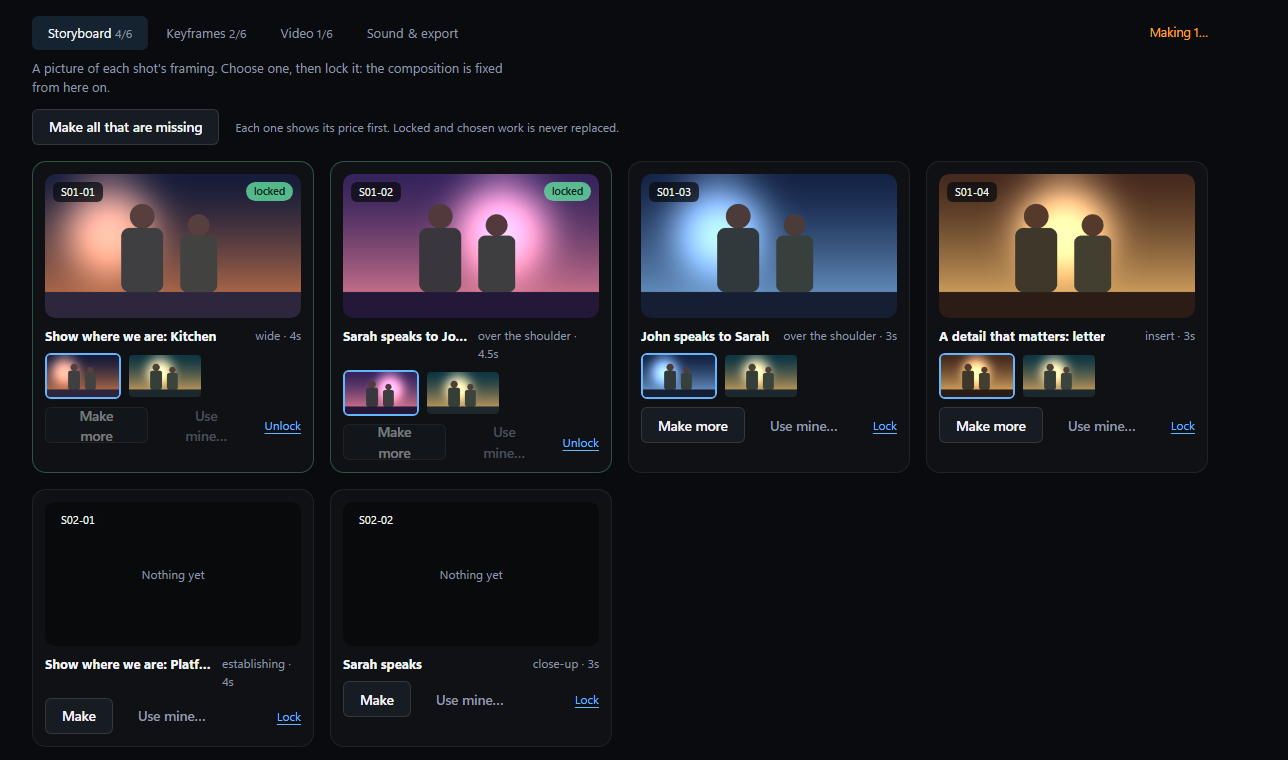
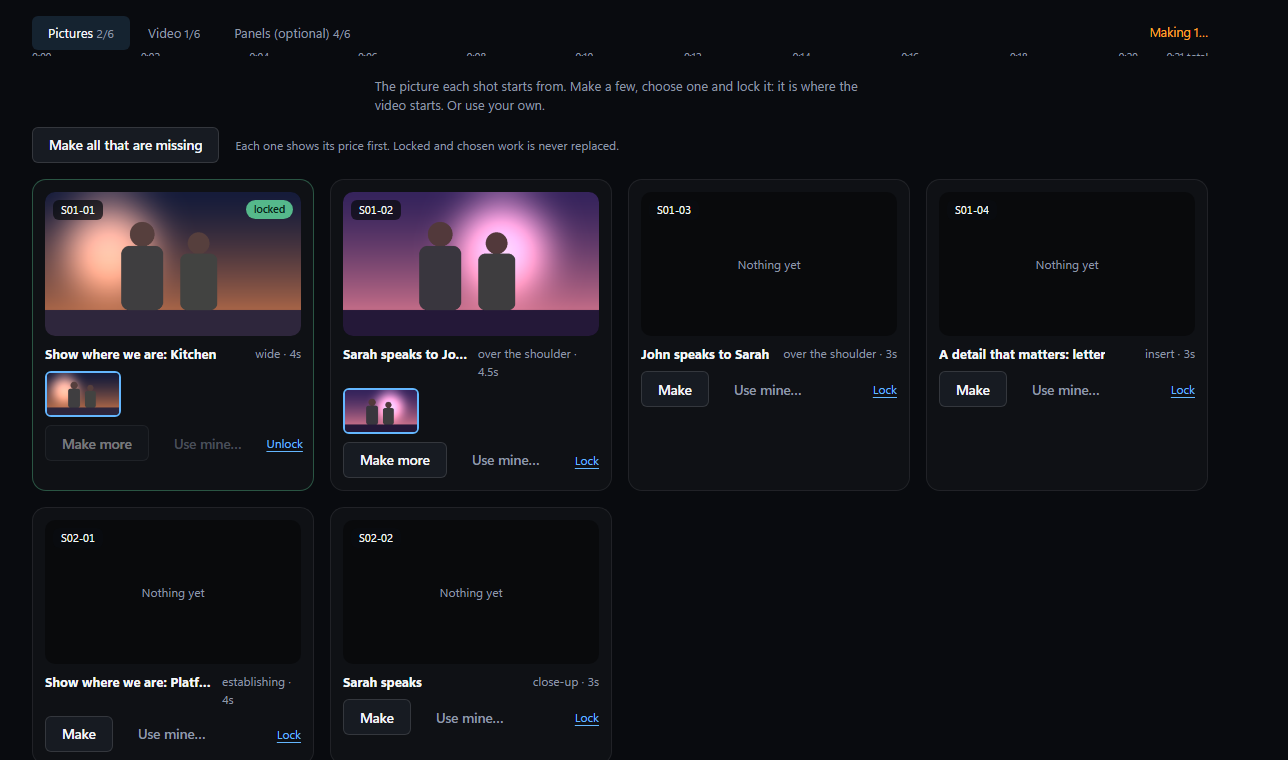
0.6.0: one Studio step (Cards | Timeline), Panels optional, Export its own step, Simple/Pro

diff --git a/src/MakeFilm.tsx b/src/MakeFilm.tsx
@@ -7,10 +7,10 @@ import { FilmStrip } from "./FilmStrip";
 
 export type MakeTab = "storyboard" | "keyframe" | "video" | "deliver";
 const TABS: { id: MakeTab; label: string; blurb: string }[] = [
-  { id: "storyboard", label: "Storyboard", blurb: "A picture of each shot's framing. Choose one, then lock it: the composition is fixed from here on." },
-  { id: "keyframe", label: "Keyframes", blurb: "The hero frame of each shot, made from the approved storyboard. Choose one, then lock it: it is where the video starts." },
-  { id: "video", label: "Video", blurb: "Each shot brought to life from its locked keyframe. Compare takes and approve the one to use." },
-  { id: "deliver", label: "Sound & export", blurb: "The soundtrack, then the finished film." },
+  { id: "keyframe", label: "Pictures", blurb: "The picture each shot starts from. Make a few, choose one and lock it: it is where the video starts. Or use your own." },
+  { id: "video", label: "Video", blurb: "Each shot brought to life from its locked picture. Compare takes and approve the one to use." },
+  { id: "storyboard", label: "Panels (optional)", blurb: "A cheaper first pass: a quick picture of each shot's composition. Choose one and lock it, and the picture is then made from it. Skip this if you like." },
+  { id: "deliver", label: "Export", blurb: "The soundtrack, then the finished film or a hand-off to an editor." },
 ];
 const NOUN = { storyboard: "storyboard panel", keyframe: "keyframe", video: "video" } as const;
 const PRESETS: [string, string][] = [["youtube", "YouTube 16:9"], ["cinema", "Cinema 2.39:1"], ["vertical", "Vertical 9:16"], ["square", "Square 1:1"], ["preview", "Quick preview"]];
@@ -41,7 +41,7 @@ export function MakeFilm({ dir, tab, onTab, autoBreakdown }: { dir: string; tab:
           if (autoBreakdown && /no shots yet/i.test(errorText(e))) { await api.shots("breakdown", dir); await api.make("sync", dir); } else throw e;
         }
         if (live) void load();
-      } catch (e) { if (live) setErr(errorText(e) + (/no shots yet/i.test(errorText(e)) ? " Open Shots (Studio mode) and break the story down." : "")); }
+      } catch (e) { if (live) setErr(errorText(e) + (/no shots yet/i.test(errorText(e)) ? " Open Shots (Pro mode) and break the story down." : "")); }
     })();
     return () => { live = false; };
   }, [dir, load, autoBreakdown]);
@@ -106,8 +106,8 @@ export function MakeFilm({ dir, tab, onTab, autoBreakdown }: { dir: string; tab:
   return (
     <div className="mk">
       <div className="mk-head">
-        <div className="cw-tabs" role="tablist">{TABS.map((x) => <button key={x.id} role="tab" aria-selected={tab === x.id} className={tab === x.id ? "on" : ""} onClick={() => onTab(x.id)}>{x.label}
-          {x.id !== "deliver" && <span className="dim"> {st.counts[x.id]}/{st.counts.shots}</span>}</button>)}</div>
+        {tab !== "deliver" ? <div className="cw-tabs" role="tablist">{TABS.filter((x) => x.id !== "deliver").map((x) => <button key={x.id} role="tab" aria-selected={tab === x.id} className={tab === x.id ? "on" : ""} onClick={() => onTab(x.id)}>{x.label}
+          <span className="dim"> {st.counts[x.id as "storyboard" | "keyframe" | "video"]}/{st.counts.shots}</span></button>)}</div> : <h2 className="mk-title">Export</h2>}
         <div style={{ flex: 1 }} />
         {st.active > 0 && <span className="mk-active" role="status">Making {st.active}…</span>}
       </div>
@@ -151,14 +151,14 @@ export function MakeFilm({ dir, tab, onTab, autoBreakdown }: { dir: string; tab:
 
 const done = (s: MakeShot, stage: "storyboard" | "keyframe" | "video") => stage === "video" ? !!s.video.takes.find((x) => x.ok) : !!s[stage].chosen || s[stage].options.some((o) => o.ok || ["queued", "submitting", "submitted"].includes(o.state));
 /** A stage is open for a shot once the one before it has a choice. */
-const ready = (s: MakeShot, stage: "storyboard" | "keyframe" | "video") => stage === "storyboard" ? true : stage === "keyframe" ? !!s.storyboard.chosen : !!s.keyframe.chosen;
+const ready = (s: MakeShot, stage: "storyboard" | "keyframe" | "video") => stage === "video" ? !!s.keyframe.chosen : true;      // a video needs its picture; a picture needs nothing (panels are optional)
 
 function Card({ dir, rd, stage, s, busy, onMake, onBring, onChoose, onLock }: { dir: string; rd: string; stage: "storyboard" | "keyframe" | "video"; s: MakeShot; busy: boolean;
   onMake: (variants: number) => void; onBring: () => void; onChoose: (job: string) => void; onLock: (on: boolean) => void }) {
   void dir;
   const url = (rel: string | null) => (rel ? api.mediaUrl(`${rd}/${rel}`) : "");
   const open_ = stage === "video" ? s.video.takes.some((t) => ["queued", "submitting", "submitted"].includes(t.state)) : s[stage].options.some((o) => ["queued", "submitting", "submitted"].includes(o.state));
-  const gate = !ready(s, stage) ? (stage === "keyframe" ? "Choose a storyboard panel first." : "Choose a keyframe first.") : "";
+  const gate = !ready(s, stage) ? "Choose a picture first." : "";
   const locked = stage !== "video" && s[stage].locked;
   const chosenVideo = s.video.takes.find((t) => t.approved && t.ok) ?? s.video.takes.find((t) => t.ok);
   const preview = stage === "video" ? chosenVideo?.video ?? null : s[stage].chosen;

diff --git a/src/__tests__/story.test.tsx b/src/__tests__/story.test.tsx
@@ -65,8 +65,8 @@ describe("the way from a spark to a film", () => {
   it("has the ladder and the stages in order, and every stage is built", () => {
     expect(LADDER[0]).toBe("Logline"); expect(LADDER[LADDER.length - 1]).toBe("Screenplay");
     expect(ladderAt("logline")).toBe(0); expect(ladderAt("Screenplay")).toBe(5); expect(ladderAt("nonsense")).toBe(0);
-    expect(STAGES.map((s) => s.label)).toEqual(["Story", "Cast & World", "Shots", "Storyboard", "Make film", "Review", "Export"]);
-    expect(STAGES.filter((s) => s.ready).map((s) => s.id)).toEqual(["story", "cast", "shots", "storyboard", "make", "review", "export"]);
+    expect(STAGES.map((s) => s.label)).toEqual(["Story", "Cast & World", "Shots", "Studio", "Export"]);
+    expect(STAGES.filter((s) => s.ready).map((s) => s.id)).toEqual(["story", "cast", "shots", "make", "export"]);
   });
 });
 
@@ -104,6 +104,10 @@ describe("the Home film strip", () => {
   });
 });
 
+
+import { neighbours, stageBadge, stageDone, stageLabel } from "../storyView";
+import type { FilmProgress } from "../api";
+
 describe("the script reader keeps its width", () => {
   it("is centred by padding, not by auto margins (an auto margin on a flex child shrank a long script to one word per line)", () => {
     const css = readFileSync("src/film.css", "utf8");
@@ -114,29 +118,36 @@ describe("the script reader keeps its width", () => {
   });
 });
 
-import { neighbours, stageBadge, stageDone, stageLabel } from "../storyView";
-import type { FilmProgress } from "../api";
-
 describe("progress along the top", () => {
   const p = (over: Partial<FilmProgress> = {}): FilmProgress => ({ story: { kind: "screenplay", locked: true, as_is: true }, cast: { characters: 11, places: 7, pictures: 0, style: true }, shots: { count: 48, edited: 0 },
     make: { shots: 48, storyboard: 12, keyframe: 0, video: 0 }, ...over });
   it("says how far each step is, and nothing before there is something to say", () => {
-    expect(stageBadge("story", p())).toBe("locked"); expect(stageBadge("cast", p())).toBe("11 · 7"); expect(stageBadge("storyboard", p())).toBe("12/48");
-    expect(stageBadge("make", p())).toBe("0/48"); expect(stageBadge("export", p())).toBe(""); expect(stageBadge("export", p({ make: { shots: 48, storyboard: 48, keyframe: 48, video: 3 } }))).toBe("ready");
-    expect(stageBadge("story", null)).toBe(""); expect(stageBadge("cast", p({ cast: { characters: 0, places: 0, pictures: 0, style: false } }))).toBe("");
+    expect(stageBadge("story", p())).toBe("locked");
+    expect(stageBadge("cast", p())).toBe("11 · 7");
+    expect(stageBadge("make", p())).toBe("");
+    expect(stageBadge("make", p({ make: { shots: 48, storyboard: 0, keyframe: 12, video: 0 } }))).toBe("12/48 frames");
+    expect(stageBadge("make", p({ make: { shots: 48, storyboard: 0, keyframe: 48, video: 3 } }))).toBe("3/48 video");
+    expect(stageBadge("export", p())).toBe("");
+    expect(stageBadge("export", p({ make: { shots: 48, storyboard: 48, keyframe: 48, video: 3 } }))).toBe("ready");
+    expect(stageBadge("story", null)).toBe("");
+    expect(stageBadge("cast", p({ cast: { characters: 0, places: 0, pictures: 0, style: false } }))).toBe("");
   });
   it("marks a step done only when it really is", () => {
-    expect(stageDone("story", p())).toBe(true); expect(stageDone("storyboard", p())).toBe(false);
-    expect(stageDone("storyboard", p({ make: { shots: 48, storyboard: 48, keyframe: 0, video: 0 } }))).toBe(true);
+    expect(stageDone("story", p())).toBe(true);
+    expect(stageDone("make", p())).toBe(false);
+    expect(stageDone("make", p({ make: { shots: 48, storyboard: 0, keyframe: 48, video: 48 } }))).toBe(true);
     expect(stageDone("cast", p({ cast: { characters: 3, places: 1, pictures: 0, style: false } }))).toBe(false);
     expect(stageDone("export", p())).toBe(false);
   });
   it("knows the step before and after, skipping Shots in Simple mode, and what to do here", () => {
     expect(neighbours("story", false)).toMatchObject({ prev: null, next: "cast" });
-    expect(neighbours("cast", false).next).toBe("storyboard"); expect(neighbours("cast", true).next).toBe("shots");
-    expect(neighbours("export", true)).toMatchObject({ next: null, prev: "review" });
+    expect(neighbours("cast", false).next).toBe("make");
+    expect(neighbours("cast", true).next).toBe("shots");
+    expect(neighbours("make", true)).toMatchObject({ prev: "shots", next: "export" });
+    expect(neighbours("export", true)).toMatchObject({ next: null, prev: "make" });
     expect(neighbours("story", true).hint).toMatch(/Lock the story/);
     expect(neighbours("nope", true)).toEqual({ prev: null, next: null, hint: "" });
-    expect(stageLabel("make")).toBe("Make film");
+    expect(stageLabel("make")).toBe("Studio");
   });
 });
+

diff --git a/src/storyView.ts b/src/storyView.ts
@@ -12,14 +12,12 @@ export const STORY_KINDS: { id: StoryKind; label: string; blurb: string }[] = [
 export const STORY_EXT = ["txt", "md", "fountain", "text", "pdf", "docx"];
 export const isStoryFile = (path: string) => STORY_EXT.includes(String(path).split(".").pop()!.toLowerCase());
 
-/** The film's stages in the order a film is made. Only the first is built so far; the others are shown so the road ahead is visible. */
+/** The steps of a film, in the order it is made. Making the film (pictures, video, review) is one step: the Studio, seen as cards or as a timeline. */
 export const STAGES: { id: string; label: string; ready: boolean }[] = [
   { id: "story", label: "Story", ready: true },
   { id: "cast", label: "Cast & World", ready: true },
   { id: "shots", label: "Shots", ready: true },
-  { id: "storyboard", label: "Storyboard", ready: true },
-  { id: "make", label: "Make film", ready: true },
-  { id: "review", label: "Review", ready: true },
+  { id: "make", label: "Studio", ready: true },
   { id: "export", label: "Export", ready: true },
 ];
 
@@ -85,16 +83,14 @@ export function storyState(s: { kind: StoryKind; locked: number | null; as_is: n
   return s.kind === "screenplay" ? "Screenplay, not locked yet" : `Still a ${s.kind === "idea" ? "logline or idea" : s.kind}`;
 }
 
-/** A small word under a step along the top: how far along it is. Empty when there is nothing to say yet. */
+/** A small word under a step along the top: how far it is. Empty when there is nothing to say yet. */
 export function stageBadge(id: string, p: import("./api").FilmProgress | null): string {
   if (!p) return "";
   switch (id) {
     case "story": return p.story.locked ? "locked" : "";
-    case "cast": return p.cast.characters + p.cast.places > 0 ? `${p.cast.characters} · ${p.cast.places}` : "";
+    case "cast": return p.cast.characters + p.cast.places > 0 ? `${p.cast.characters} \u00b7 ${p.cast.places}` : "";
     case "shots": return p.shots.count ? String(p.shots.count) : "";
-    case "storyboard": return p.make.shots ? `${p.make.storyboard}/${p.make.shots}` : "";
-    case "make": return p.make.shots ? `${p.make.keyframe}/${p.make.shots}` : "";
-    case "review": return p.make.shots ? `${p.make.video}/${p.make.shots}` : "";
+    case "make": return !p.make.shots ? "" : p.make.video > 0 ? `${p.make.video}/${p.make.shots} video` : p.make.keyframe > 0 ? `${p.make.keyframe}/${p.make.shots} frames` : "";
     case "export": return p.make.video > 0 ? "ready" : "";
     default: return "";
   }
@@ -107,21 +103,17 @@ export function stageDone(id: string, p: import("./api").FilmProgress | null): b
     case "story": return p.story.locked;
     case "cast": return p.cast.characters > 0 && p.cast.style;
     case "shots": return p.shots.count > 0;
-    case "storyboard": return p.make.shots > 0 && p.make.storyboard === p.make.shots;
-    case "make": return p.make.shots > 0 && p.make.keyframe === p.make.shots;
-    case "review": return p.make.shots > 0 && p.make.video === p.make.shots;
+    case "make": return p.make.shots > 0 && p.make.video === p.make.shots;
     default: return false;
   }
 }
 
-const FLOW = ["story", "cast", "shots", "storyboard", "make", "review", "export"];
+const FLOW = ["story", "cast", "shots", "make", "export"];
 const HINT: Record<string, string> = {
   story: "Lock the story when it is final. Everything else is made from it.",
   cast: "Add the people and places, and choose a visual style. Optional: the writing helper can suggest details.",
   shots: "The story is broken into shots you can change.",
-  storyboard: "Make a picture of each shot, choose one and lock it.",
-  make: "Make each shot's hero frame from its storyboard, choose one and lock it.",
-  review: "Bring each shot to life, compare takes and approve one.",
+  make: "Make each shot's picture, choose one, then bring it to life. Switch to Timeline for the full editing studio.",
   export: "Choose a soundtrack, then export the film or hand it to an editor.",
 };
 /** The step before and after this one (Simple mode skips Shots), with what to do here. */

diff --git a/src/FilmView.tsx b/src/FilmView.tsx
@@ -19,14 +19,14 @@ export function FilmView({ dir, onHome, onSettings, onStudio, initialStage }: { 
   const [writing, setWriting] = useState(false);
   const [scene, setScene] = useState<number | null>(null);
   const [showAll, setShowAll] = useState(false);
-  const [stage, setStage] = useState<"story" | "cast" | "shots" | "make">(initialStage === "storyboard" ? "make" : "story");        // the studio can bring you back to a step
-  const [makeTab, setMakeTab] = useState<MakeTab>("storyboard");
+  const [stage, setStage] = useState<"story" | "cast" | "shots" | "make">(initialStage === "studio" || initialStage === "storyboard" ? "make" : "story");        // the studio can bring you back to a step
+  const [makeTab, setMakeTab] = useState<MakeTab>(initialStage === "storyboard" ? "storyboard" : "keyframe");
   const [progress, setProgress] = useState<FilmProgress | null>(null);
   const [suggested, setSuggested] = useState<{ text: string; kind: StoryKind } | null>(null);          // the next step the writing helper proposed: opens in the new-version sheet to edit and save
   const [helping, setHelping] = useState(false);
-  const MAKE_STAGE: Record<string, MakeTab> = { storyboard: "storyboard", make: "keyframe", review: "video", export: "deliver" };
+  const MAKE_STAGE: Record<string, MakeTab> = { make: "keyframe", export: "deliver" };
   const stageOf = (id: string) => (id in MAKE_STAGE ? "make" : id);
-  const activeId = stage === "make" ? Object.keys(MAKE_STAGE).find((k) => MAKE_STAGE[k] === makeTab || (k === "make" && makeTab === "keyframe")) ?? "make" : stage;
+  const activeId = stage === "make" ? (makeTab === "deliver" ? "export" : "make") : stage;
   const reader = useRef<HTMLDivElement>(null);
 
   const load = useCallback((version?: number) =>
@@ -48,7 +48,10 @@ export function FilmView({ dir, onHome, onSettings, onStudio, initialStage }: { 
 
   if (!f) return <div className="film"><div className="film-load dim">{err || "Opening the film…"}</div></div>;
   const st = f.story;
-  const goStage = (id: string) => { setStage(stageOf(id) as "story" | "cast" | "shots" | "make"); if (id in MAKE_STAGE) setMakeTab(MAKE_STAGE[id]); };
+  const goStage = (id: string) => {
+    setStage(stageOf(id) as "story" | "cast" | "shots" | "make");
+    if (id === "export") setMakeTab("deliver"); else if (id === "make" && makeTab === "deliver") setMakeTab("keyframe");          // Studio keeps the tab you were on; Export is the last one
+  };
   const nb = neighbours(activeId, f.mode === "studio");
   const isScreenplay = f.kind === "screenplay";
   const studio = f.mode === "studio";
@@ -78,7 +81,7 @@ export function FilmView({ dir, onHome, onSettings, onStudio, initialStage }: { 
             onClick={async () => { try { await api.shots("get", dir).then(async (v) => { if (!v.shots.length) await api.shots("breakdown", dir); }); const r = await api.make<{ render_dir: string }>("sync", dir); onStudio(r.render_dir); } catch (e) { setErr(errorText(e)); } }}>Timeline</button></div>}
         <div className="mode-toggle film-mode" role="group" aria-label="Mode" title="Simple hides the detailed workspaces. It is the same film either way.">
           {(["simple", "studio"] as const).map((m) => <button key={m} className={f.mode === m ? "on" : ""} aria-pressed={f.mode === m}
-            onClick={() => { if (f.mode !== m) { if (m === "simple" && stage === "shots") setStage("story"); void run("mode", () => api.film<FilmStatus>("set_mode", dir, { mode: m })); } }}>{m === "simple" ? "Simple" : "Studio"}</button>)}</div>
+            onClick={() => { if (f.mode !== m) { if (m === "simple" && stage === "shots") setStage("story"); void run("mode", () => api.film<FilmStatus>("set_mode", dir, { mode: m })); } }}>{m === "simple" ? "Simple" : "Pro"}</button>)}</div>
         <button className="icon-btn" onClick={onSettings} title="Settings" aria-label="Settings"><I.Gear /></button>
       </header>
 

diff --git a/src/docshots/main.tsx b/src/docshots/main.tsx
@@ -191,7 +191,7 @@ mockIPC((cmd, a) => {
     case "key_status": return { openai: true, fal: true, kie: true, google: false, elevenlabs: false, midjourney: false };
     case "engine_status": return { ready: true, gpu: false, dev: true, python: "" };
     case "film_bible": return bibleView;
-    case "film_make": return makeStatus;
+    case "film_make": return x.action === "progress" ? { story: { kind: "screenplay", locked: true, as_is: true }, cast: { characters: 2, places: 2, pictures: 2, style: true }, shots: { count: 6, edited: 1 }, make: { shots: 6, storyboard: 4, keyframe: 2, video: 1 } } : makeStatus;
     case "film_shots": return x.action === "shot" ? { shot: shotContract } : x.action === "suggest" ? shotSuggestion : shotsView;
     case "film":
       if (x.action === "read_file") return { name: "last-train.fountain", text: filmText, truncated: false };
@@ -250,7 +250,7 @@ const scenes: Record<string, () => ReactNode> = {
   newfilm: () => <NewFilm onClose={noop} onCreated={noop} />,
   newfilmwrite: () => <NewFilm file="last-train.fountain" onClose={noop} onCreated={noop} />,
   studio: () => <Studio project={{ dir: DIR, ...(renderFixture as object), directed: null, jobs: [], keyframes: {}, concepts: null, treatment: null, song_path: DIR + "/soundtrack.wav", doc: null } as never} onHome={noop} onSettings={noop} onReload={noop} />,
-  make: () => <div style={{ width: 1240, height: 760, display: "flex", background: "#090b0f" }}><MakeFilm dir="f1" tab="storyboard" onTab={noop} /></div>,
+  make: () => <div style={{ width: 1240, height: 760, display: "flex", background: "#090b0f" }}><MakeFilm dir="f1" tab="keyframe" onTab={noop} /></div>,
   shots: () => <div style={{ width: 1240, height: 780, display: "flex", background: "#090b0f" }}><ShotLab dir="f1" /></div>,
   cast: () => <div style={{ width: 1200, height: 760, display: "flex", background: "#090b0f" }}><CastWorld dir="f1" /></div>,
   film: () => <FilmView dir="f1" onHome={noop} onSettings={noop} />,

diff --git a/src/Studio.tsx b/src/Studio.tsx
@@ -224,9 +224,9 @@ export function Studio({ project, onHome, onFilm, onSettings, onReload, onProduc
   const goCards = (to?: string) => { if (to && onFilm) onFilm(to); else onHome(); };                  // back to the film workspace (optionally straight to a step of it)
   const filmSwitch = isFilm ? (
     <>
-      <div className="mode-toggle film-view" role="group" aria-label="How to see the film" title="The same film two ways. Cards: the story-first workspace. Timeline: this editing studio.">
-        <button aria-pressed="false" onClick={() => goCards()}>Cards</button><button className="on" aria-pressed="true">Timeline</button></div>
-      <button className="btn hero" onClick={() => goCards("storyboard")} title="Back to the film: the storyboard wall"><I.Film size={14} /> Storyboard</button>
+      <div className="mode-toggle film-view" role="group" aria-label="How to see the film" title="The same film two ways. Cards: a wall of pictures and takes, one card per shot. Timeline: this editing studio.">
+        <button aria-pressed="false" onClick={() => goCards("studio")}>Cards</button><button className="on" aria-pressed="true">Timeline</button></div>
+      <button className="btn" onClick={onHome} title="Back to the film: story, cast and shots">‹ Film</button>
     </>) : null;
   const latest = useMemo(() => latestJobs(jobs, planName), [jobs, planName]);
   // Review judges the newest finished take of each shot (a newer failed attempt doesn't hide it).

diff --git a/docs/STORY.md b/docs/STORY.md
@@ -65,16 +65,22 @@ Each shot is a **Shot Contract** that doesn't depend on any AI model:
 
 Move, duplicate, split, join and take out shots freely (a shot you take out is moved aside, not deleted). Running the breakdown again only drafts scenes that have no shots; shots you have edited are never changed. A shot whose storyboard is locked can't have its framing, people or place changed until you unlock it.
 
-## Making the film
+## The Studio: one place to make the film
 
-**Storyboard**, **Make film**, **Review** and **Export** along the top open the same workspace, one step at a time.
+Along the top of a film there are five steps: **Story, Cast & World, Shots, Studio, Export**. The **Studio** is where pictures and video are made, and you can see it two ways with the **Cards | Timeline** switch at the top right (or press **‹ Film** in the timeline to go back to the story, cast and shots):
 
-![The storyboard wall: choose a panel, lock it, or use your own](img/film/make.png)
+- **Cards**: a wall of cards, one per shot, with the film strip along the top.
+- **Timeline**: the full editing studio (scenes, cuts, dialogue lane, soundtrack waveform, layers, Supervisor, Review, Lighting, Colour match, Clean up).
 
-1. **Storyboard.** Make a few pictures of each shot's framing (or use your own), choose one and **lock** it. The composition is fixed from here on.
-2. **Keyframes.** The hero frame of each shot is made from the locked storyboard panel, the Cast pictures and the shot's contract. Choose one and **lock** it. A shot's keyframe is only available once its storyboard is chosen.
-3. **Video.** Each shot is brought to life from its locked keyframe (or bring your own video). Compare takes and **approve** the one to use. A shot's video is only available once its keyframe is chosen.
-4. **Sound & export.** Choose a soundtrack (music, a dialogue mix, an ADR track you made elsewhere; it is copied in untouched) or keep silence, then export the film. Shots without a take appear as storyboard cards and the film is marked as a draft.
+![The cards: pictures to choose from and lock, with the film strip across the top](img/film/make.png)
+
+On the cards, three tabs follow the work:
+
+1. **Pictures.** Make a few pictures of each shot, choose one and **lock** it; it is where the video starts. Or use your own picture. A picture needs nothing before it.
+2. **Video.** Each shot is brought to life from its locked picture (or bring your own video). Compare takes and **approve** the one to use. A shot's video is available once its picture is chosen.
+3. **Panels (optional).** A cheaper first pass: a quick picture of each shot's composition. Choose one and lock it, and the picture is then made from it. Skip it if you like.
+
+**Export** is the last step: choose a soundtrack (music, a dialogue mix, an ADR track you made elsewhere; it is copied in untouched) or keep silence, then export the film or write a hand-off folder for an editor.
 
 **Money.** Every generation shows the provider's price first and waits for your yes. Nothing is made until you press **Make**. Chosen and locked work is never replaced by a new generation. Pictures and video go through the same render engine PULSEFRAME uses: your provider keys, budgets, queues and retries all apply, and a render that was running when you closed the app picks up where it left off.
 

diff --git a/CHANGELOG.md b/CHANGELOG.md
@@ -1,5 +1,12 @@
 # Changelog
 
+## 0.6.0 (2026-10-10)
+
+- **One Studio instead of three steps.** The steps are now **Story, Cast & World, Shots, Studio, Export**. Making the film (pictures, video, review) is one place seen two ways, **Cards | Timeline**; the separate Storyboard, Make film and Review steps are gone.
+- **Panels are optional.** The cards have **Pictures** (first), **Video**, and **Panels (optional)**. A picture no longer needs a storyboard panel first; a video still needs its picture.
+- **Export is its own step** (soundtrack, export, hand-off to an editor).
+- The studio's top bar has **Cards | Timeline** and **‹ Film**; the separate amber Storyboard button is gone.
+
 ## 0.5.1 (2026-10-10)
 
 - **Fixed: the Storyboard button in the studio went Home.** The path pattern that finds a film from its render folder only understood forward slashes, and Windows paths use backslashes. It is now one tested helper for both (`filmPaths.ts`), also used when a `.filmcrafter` document is opened.
@@ -50,7 +57,7 @@ The first version that takes a film from a screenplay to an exported file.
 - **Making the film:** storyboard panels, hero keyframes and video through the proven render engine, with choose and lock at each stage, your own pictures and video, a soundtrack, and export. Every generation shows its price and waits for a yes.
 - **Continuity Director:** advisory findings ("may have changed") with reasons; your decisions are kept.
 - **Hand-off:** EDL, OpenTimelineIO, Final Cut Pro XML, shot manifest, subtitles, copied takes and soundtrack.
-- **Simple and Studio** modes on the same film; **Director Command** (Ctrl+K) for plain phrases about a shot.
+- **Simple and Pro** modes on the same film; **Director Command** (Ctrl+K) for plain phrases about a shot.
 - New app icon from the FilmCrafter mark.
 - Tests: 90 new engine tests including a whole film from screenplay to export with no provider and no spend.
 

diff --git a/docs/architecture/STATUS.md b/docs/architecture/STATUS.md
@@ -42,7 +42,7 @@ Honest status against the goals in `PHASE0_PLAN.md` (written 2026-10-09, updated
 | Local models (Ollama, LM Studio, ComfyUI) | The routing and local-first logic of the render engine are inherited and untouched; nothing film-specific was added or tested. |
 | Capability-driven model registry | Inherited (`router.py` plus provider manifests); not converted to a data-only registry. |
 | Director Command | Done as a set of plain phrases (Ctrl+K in Shots), shown before it is applied. It does not use a language model. |
-| Simple and Studio modes | Done (same film; Studio shows the Shots workspace). |
+| Simple and Pro modes | Done (same film; Pro shows the Shots workspace). |
 | Interchange for After Effects, AAF, stems | Not done. |
 | FrameCore shared package | Not started. |
 
@@ -52,6 +52,10 @@ Honest status against the goals in `PHASE0_PLAN.md` (written 2026-10-09, updated
 - **Cards | Timeline** toggle on the same film (the two views of the same shots; the picks are shared through the render project).
 - **Film strip** in the film workspace: drag a block's edge to change a shot's length, drag a block to reorder; changes are written to the shots (arithmetic tested; the drag was not tried by hand).
 - Song-first parts hidden on a film (Autopilot, Direct My Video, song guide and tour, tempo, Who sings, dance direction).
+
+## Consolidation (0.6.0)
+
+The film workspace had grown a second making-the-film flow (Storyboard, Make film, Review) beside the studio. They are now one **Studio** step seen as **Cards | Timeline**, with Pictures, Video and optional Panels on the cards, and Export as its own step. Five steps: Story, Cast & World, Shots, Studio, Export.
 
 ## Known gaps worth fixing next
 
